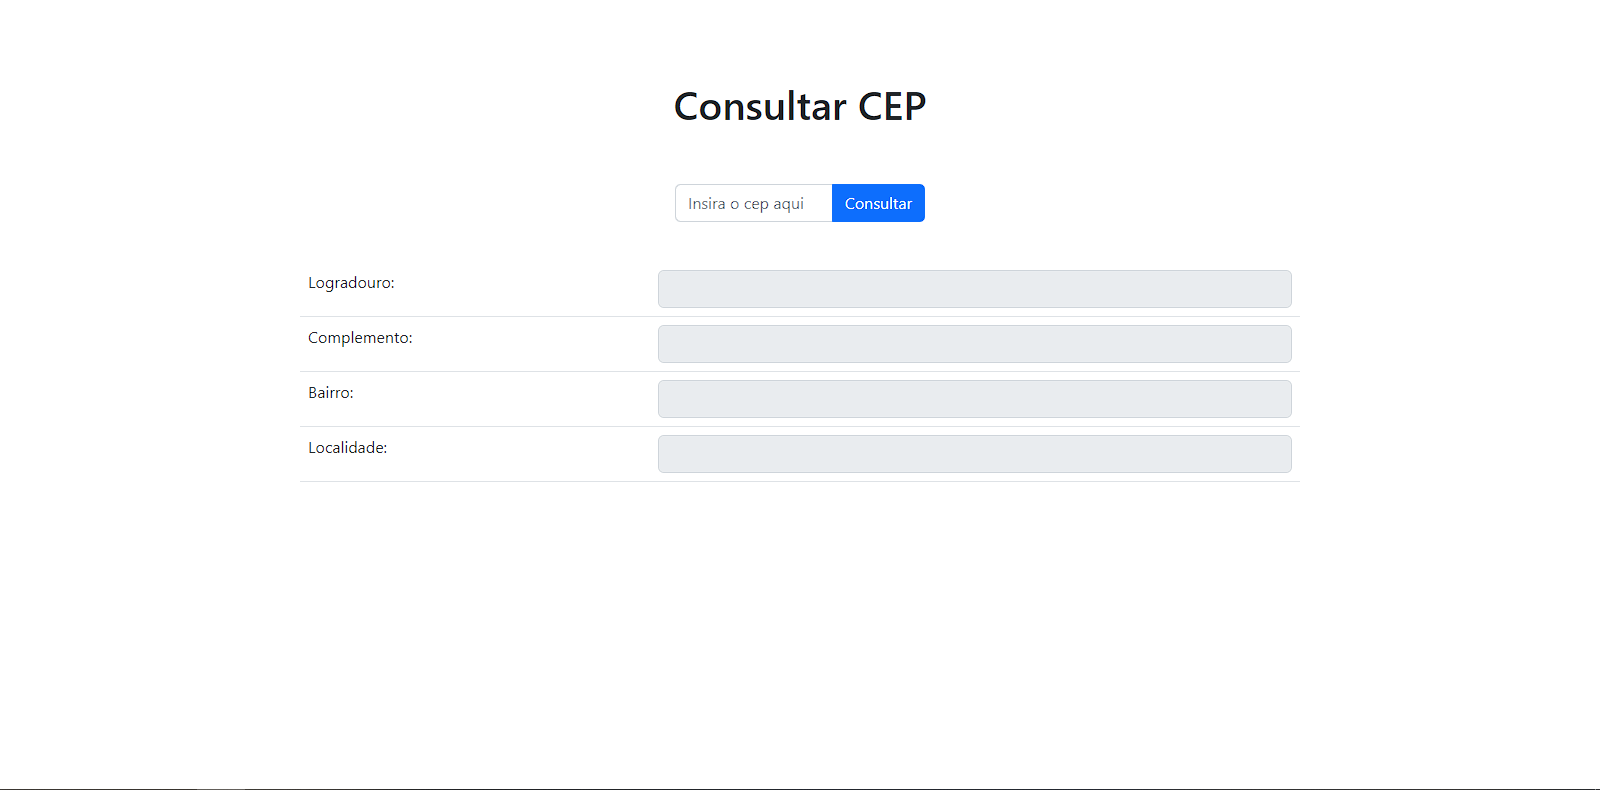
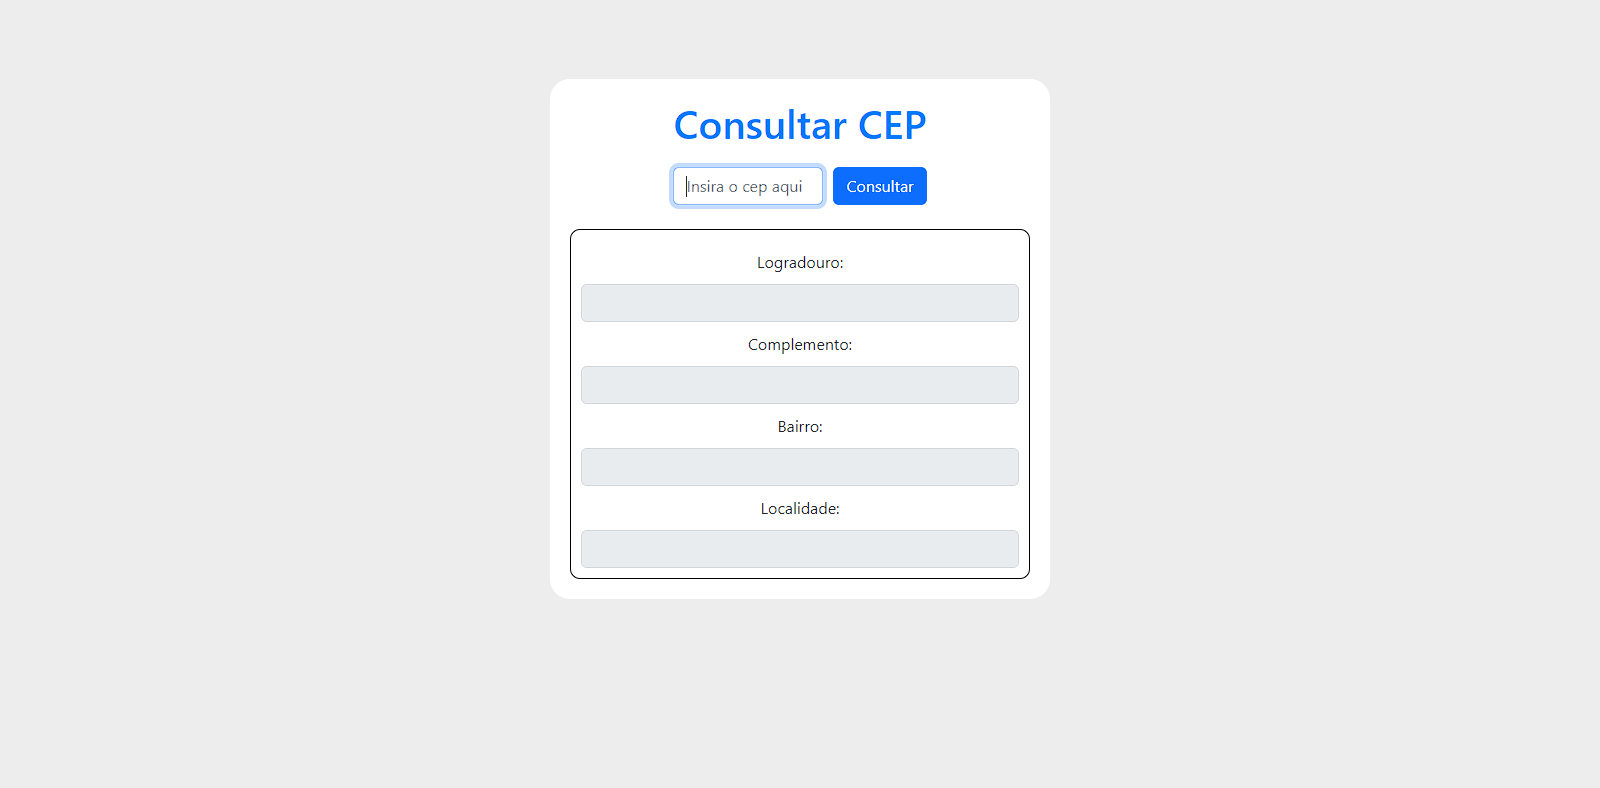
alteração na tela

diff --git a/index.html b/index.html
@@ -7,11 +7,9 @@
 	<link href="https://cdn.jsdelivr.net/npm/bootstrap@5.2.2/dist/css/bootstrap.min.css" rel="stylesheet" integrity="sha384-Zenh87qX5JnK2Jl0vWa8Ck2rdkQ2Bzep5IDxbcnCeuOxjzrPF/et3URy9Bv1WTRi" crossorigin="anonymous">
 </head>
 <body>
-	<h1 id="titulo">Consultar CEP</h1>
-	<br>
-	<br>
 	<div id="principal">
-		<div class="input-group mb-3" id="consulta">
+		<h1 id="titulo">Consultar CEP</h1>
+		<div id="consulta">
 			<input 
 				type="text" 
 				class="form-control" 
@@ -19,29 +17,21 @@
 				maxlength="9"
 				autofocus
 				id="campoConsultaCep">
-			<button class="btn btn-primary" type="button" id="button-addon2" onclick="consultar()">Consultar</button>
+			<button class="btn btn-primary" type="button" onclick="consultar()">Consultar</button>
 		</div>
 		  
 		<br>
 
-		<table id="retorno" class="table">
-			<tr>
-				<td>Logradouro:</td>
-				<td><input type="text" name="txtLogradouro" id="campoLogradouro" readonly="true" class="form-control" disabled></td>
-			</tr>
-			<tr>
-				<td>Complemento:</td>
-				<td><input type="text" name="txtComplemento" id="campoComplemento" readonly="true" class="form-control" disabled></td>
-			</tr>
-			<tr>
-				<td>Bairro:</td>
-				<td><input type="text" name="txtBairro" id="campoBairro" readonly="true" class="form-control" disabled></td></td>
-			</tr>
-			<tr>
-				<td>Localidade:</td>
-				<td><input type="text" name="txtLocalidade" id="campoLocalidade" readonly="true" class="form-control" disabled></td>
-			</tr>
-		</table>
+		<div id="resultado">
+			<div class="tituloResultado">Logradouro:</div>
+			<input type="text" name="txtLogradouro" id="campoLogradouro" readonly="true" class="form-control" disabled>
+			<div class="tituloResultado">Complemento:</div>
+			<input type="text" name="txtComplemento" id="campoComplemento" readonly="true" class="form-control" disabled>
+			<div class="tituloResultado">Bairro:</div>
+			<input type="text" name="txtBairro" id="campoBairro" readonly="true" class="form-control" disabled>
+			<div class="tituloResultado">Localidade:</div>
+			<input type="text" name="txtLocalidade" id="campoLocalidade" readonly="true" class="form-control" disabled>
+		</div>
 	</div>
 	<script type="text/javascript" src="script.js"></script>
 </body>

diff --git a/style.css b/style.css
@@ -4,20 +4,43 @@
 	padding: 0;
 }
 
-#titulo
-{
-	margin-top: 5%;
+body {
+	background: #EDEDED !important;
+}
+
+#principal {
+	background-color: #FFFFFF;
+	border-radius: 20px;
 	text-align: center;
+	width: 500px;
+	margin: 0 auto;
+	margin-top: 5%;
+	padding: 20px;
+}
+
+#titulo {
+	color: #007BFF;
 }
 
 #consulta
 {
-	margin: auto;
-	width: 250px;
+	display: flex;
+	justify-content: center;
+	margin-top: 20px;
 }
 
-#retorno
-{
-	margin: auto;
-	width: 1000px;
+#campoConsultaCep {
+	width: 150px;
+	margin-right: 10px;
+}
+
+#resultado {
+	border: 1px solid black;
+	border-radius: 10px;
+	padding: 10px;
+}
+
+.tituloResultado {
+	margin-top: 10px;
+	margin-bottom: 10px;
 }
